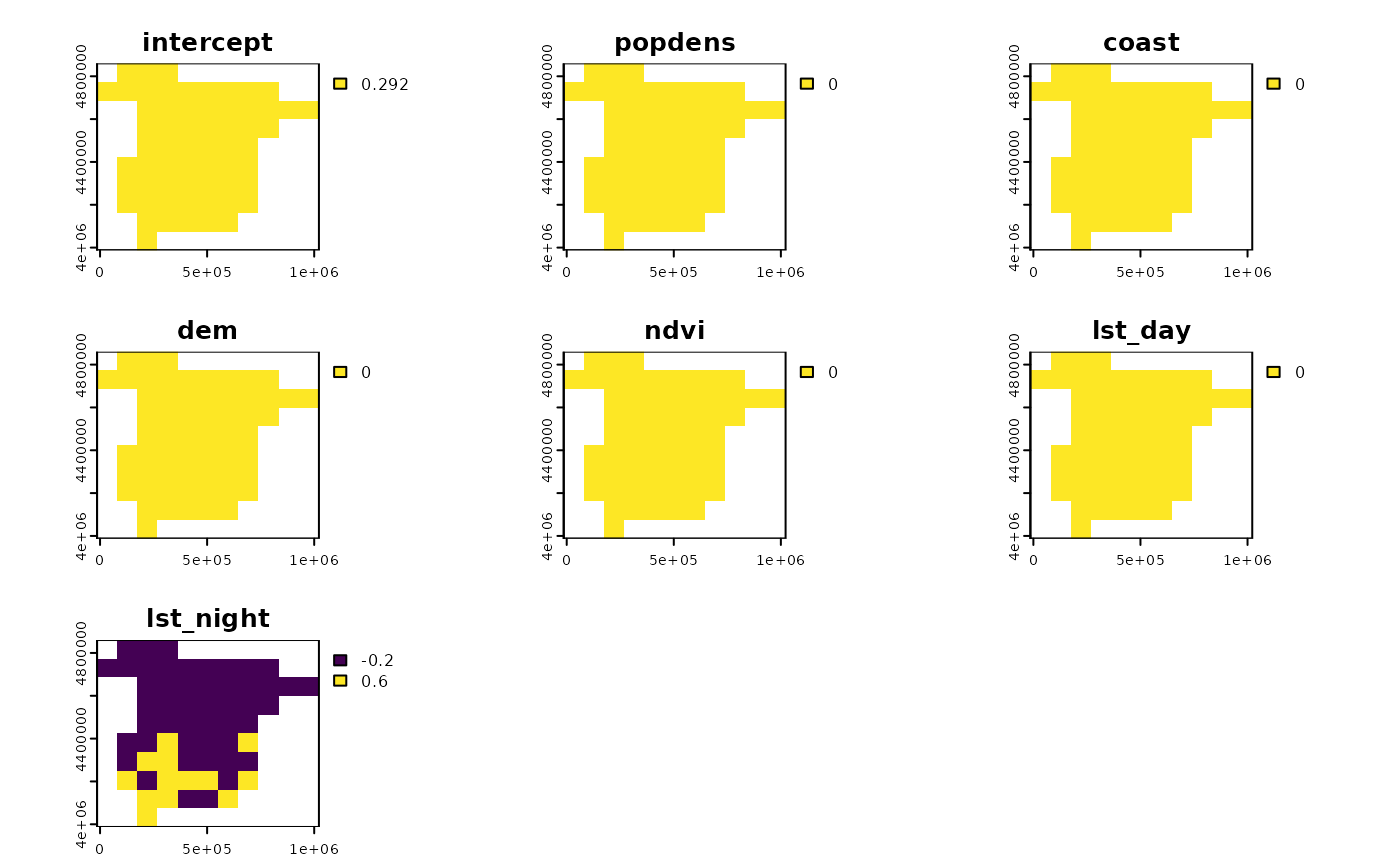
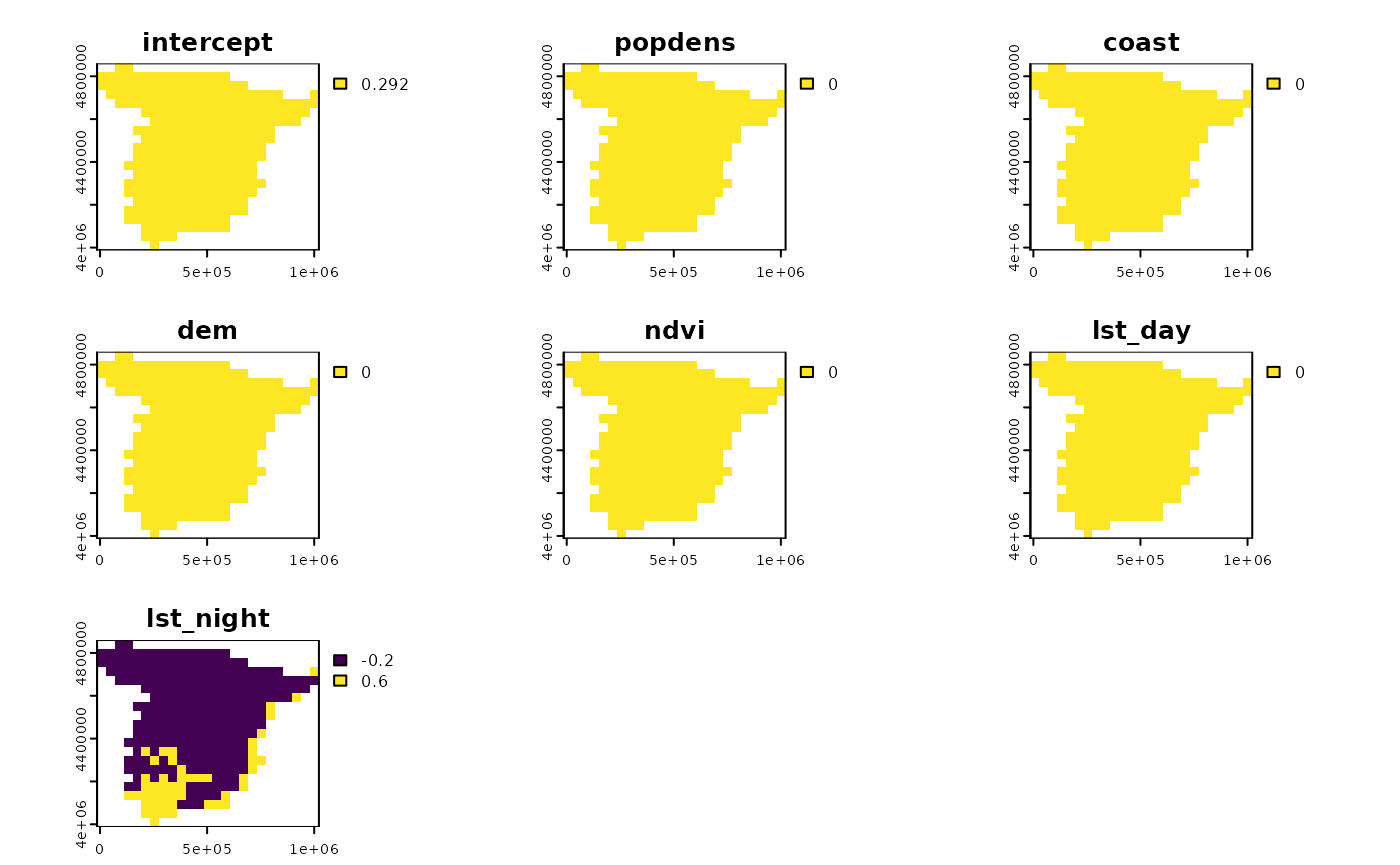
Built site for spatialexplain@0.0.1: a724ebf

diff --git a/articles/An-introduction-to-spatial-explanations.html b/articles/An-introduction-to-spatial-explanations.html
@@ -66,18 +66,15 @@
 
     
     
+<p>The <strong>spatialexplain</strong> package provides model agnostic tools for exploring and explaining spatial machine learning models. The goal of this vignette is to show the basic workflow of its usage.<a class="footnote-ref" tabindex="0" data-bs-toggle="popover" data-bs-content="&lt;p&gt;The modeling part of the vignette is very simplified to focus on the &lt;strong&gt;spatialexplain&lt;/strong&gt; package capabilities.&lt;/p&gt;"><sup>1</sup></a></p>
+<p>Let’s start by attaching the necessary packages.</p>
 <div class="sourceCode" id="cb1"><pre class="downlit sourceCode r">
 <code class="sourceCode R"><span><span class="kw"><a href="https://rdrr.io/r/base/library.html" class="external-link">library</a></span><span class="op">(</span><span class="va">spatialexplain</span><span class="op">)</span></span>
 <span><span class="kw"><a href="https://rdrr.io/r/base/library.html" class="external-link">library</a></span><span class="op">(</span><span class="va"><a href="https://r-spatial.github.io/sf/" class="external-link">sf</a></span><span class="op">)</span></span>
-<span><span class="co">#&gt; Linking to GEOS 3.10.2, GDAL 3.4.1, PROJ 8.2.1; sf_use_s2() is TRUE</span></span>
 <span><span class="kw"><a href="https://rdrr.io/r/base/library.html" class="external-link">library</a></span><span class="op">(</span><span class="va"><a href="https://rspatial.org/" class="external-link">terra</a></span><span class="op">)</span></span>
-<span><span class="co">#&gt; terra 1.7.83</span></span>
 <span><span class="kw"><a href="https://rdrr.io/r/base/library.html" class="external-link">library</a></span><span class="op">(</span><span class="va"><a href="https://github.com/bethatkinson/rpart" class="external-link">rpart</a></span><span class="op">)</span></span>
-<span><span class="kw"><a href="https://rdrr.io/r/base/library.html" class="external-link">library</a></span><span class="op">(</span><span class="va"><a href="https://modeloriented.github.io/DALEX/" class="external-link">DALEX</a></span><span class="op">)</span></span>
-<span><span class="co">#&gt; Welcome to DALEX (version: 2.4.3).</span></span>
-<span><span class="co">#&gt; Find examples and detailed introduction at: http://ema.drwhy.ai/</span></span>
-<span><span class="co">#&gt; Additional features will be available after installation of: ggpubr.</span></span>
-<span><span class="co">#&gt; Use 'install_dependencies()' to get all suggested dependencies</span></span></code></pre></div>
+<span><span class="kw"><a href="https://rdrr.io/r/base/library.html" class="external-link">library</a></span><span class="op">(</span><span class="va"><a href="https://modeloriented.github.io/DALEX/" class="external-link">DALEX</a></span><span class="op">)</span></span></code></pre></div>
+<p>Next, we load two spatial datasets. The first one is a spatial vector point dataset with annual average air temperature measurements in Celsius for Spain in 2019. The second one is a raster dataset with predictors, such as population density (<code>popdens</code>), distance to the coast (<code>coast</code>), elevation (<code>dem</code>), a satellite-based Normalized Difference Vegetation Index (<code>ndvi</code>), and annual average composites of the Land Surface Temperature product for day (<code>lst_day</code>) and night (<code>lst_night</code>).</p>
 <div class="sourceCode" id="cb2"><pre class="downlit sourceCode r">
 <code class="sourceCode R"><span><span class="va">temp_train</span> <span class="op">=</span> <span class="fu"><a href="https://r-spatial.github.io/sf/reference/st_read.html" class="external-link">read_sf</a></span><span class="op">(</span><span class="st">"/vsicurl/https://github.com/Nowosad/IIIRqueR_workshop_materials/raw/refs/heads/main/data/temp_train.gpkg"</span><span class="op">)</span></span>
 <span><span class="fu"><a href="https://rspatial.github.io/terra/reference/plot.html" class="external-link">plot</a></span><span class="op">(</span><span class="va">temp_train</span><span class="op">)</span></span></code></pre></div>
@@ -87,6 +84,10 @@
 <span><span class="va">predictors</span> <span class="op">=</span> <span class="fu"><a href="https://rspatial.github.io/terra/reference/rast.html" class="external-link">rast</a></span><span class="op">(</span><span class="st">"/vsicurl/https://github.com/Nowosad/IIIRqueR_workshop_materials/raw/refs/heads/main/data/predictors.tif"</span><span class="op">)</span></span>
 <span><span class="fu"><a href="https://rspatial.github.io/terra/reference/plot.html" class="external-link">plot</a></span><span class="op">(</span><span class="va">predictors</span>, axes <span class="op">=</span> <span class="cn">FALSE</span><span class="op">)</span></span></code></pre></div>
 <p><img src="An-introduction-to-spatial-explanations_files/figure-html/unnamed-chunk-2-2.png" width="700"></p>
+<div class="section level2">
+<h2 id="data-preparation">Data preparation<a class="anchor" aria-label="anchor" href="#data-preparation"></a>
+</h2>
+<p>To prepare the data for the model, we need to extract the values of the predictors at the locations of the temperature measurements with <code><a href="https://rspatial.github.io/terra/reference/extract.html" class="external-link">extract()</a></code>, and then combine them with the temperature measurements with <code><a href="https://rdrr.io/r/base/cbind.html" class="external-link">cbind()</a></code>.</p>
 <div class="sourceCode" id="cb4"><pre class="downlit sourceCode r">
 <code class="sourceCode R"><span><span class="va">temp</span> <span class="op">=</span> <span class="fu"><a href="https://rspatial.github.io/terra/reference/extract.html" class="external-link">extract</a></span><span class="op">(</span><span class="va">predictors</span>, <span class="va">temp_train</span>, ID <span class="op">=</span> <span class="cn">FALSE</span><span class="op">)</span></span>
 <span><span class="va">temp_train</span> <span class="op">=</span> <span class="fu"><a href="https://rdrr.io/r/base/cbind.html" class="external-link">cbind</a></span><span class="op">(</span><span class="va">temp_train</span>, <span class="va">temp</span><span class="op">)</span></span>
@@ -110,9 +111,11 @@
 <span><span class="co">#&gt; 4 POINT (902776.4 4630234)</span></span>
 <span><span class="co">#&gt; 5 POINT (928394.5 4598097)</span></span>
 <span><span class="co">#&gt; 6 POINT (934920.7 4595391)</span></span></code></pre></div>
+</div>
 <div class="section level2">
 <h2 id="regression-model">Regression model<a class="anchor" aria-label="anchor" href="#regression-model"></a>
 </h2>
+<p>Now, we can build models that predict the temperature based on the predictors. The first one is a regression model that predicts the temperature in Celsius for the whole area of the <code>predictors</code> raster. Many modeling methods and R tools can be used to build the model, but in this vignette, we use the <code><a href="https://rdrr.io/pkg/rpart/man/rpart.html" class="external-link">rpart()</a></code> function from the <strong>rpart</strong> package, which builds a regression tree model.</p>
 <div class="sourceCode" id="cb5"><pre class="downlit sourceCode r">
 <code class="sourceCode R"><span><span class="va">rpart_model</span> <span class="op">=</span> <span class="fu"><a href="https://rdrr.io/pkg/rpart/man/rpart.html" class="external-link">rpart</a></span><span class="op">(</span><span class="va">temp</span> <span class="op">~</span> <span class="va">.</span>, data <span class="op">=</span> <span class="fu"><a href="https://r-spatial.github.io/sf/reference/st_geometry.html" class="external-link">st_drop_geometry</a></span><span class="op">(</span><span class="va">temp_train</span><span class="op">)</span><span class="op">)</span></span>
 <span><span class="va">rpart_model</span></span>
@@ -134,6 +137,7 @@
 <span><span class="co">#&gt;       12) lst_day&lt; 25.98267 24   13.758720 14.412790 *</span></span>
 <span><span class="co">#&gt;       13) lst_day&gt;=25.98267 45   30.963710 16.167310 *</span></span>
 <span><span class="co">#&gt;      7) lst_night&gt;=10.0302 56   53.423460 18.143620 *</span></span></code></pre></div>
+<p>Next, we can use the <code><a href="https://modeloriented.github.io/DALEX/reference/explain.html" class="external-link">explain()</a></code> function from the <strong>DALEX</strong> package to create an explainer object for the model. Explainer is a universal model wrapper that can be used to explain any model with the same set of tools.<a class="footnote-ref" tabindex="0" data-bs-toggle="popover" data-bs-content="&lt;p&gt;The &lt;strong&gt;DALEX&lt;/strong&gt; package allows explaining models created with &lt;strong&gt;keras&lt;/strong&gt;, &lt;strong&gt;parsnip&lt;/strong&gt;, &lt;strong&gt;caret&lt;/strong&gt;, &lt;strong&gt;mlr&lt;/strong&gt;, &lt;strong&gt;H2O&lt;/strong&gt;, &lt;strong&gt;xgboost&lt;/strong&gt;, and many others. Moreover, its extension &lt;strong&gt;DALEXtra&lt;/strong&gt; allows explaining models created with &lt;strong&gt;xgboost&lt;/strong&gt;, &lt;strong&gt;mlr&lt;/strong&gt;, &lt;strong&gt;mlr3&lt;/strong&gt;, &lt;strong&gt;tidymodels&lt;/strong&gt;, and even Python’s &lt;strong&gt;scikit-learn&lt;/strong&gt; and &lt;strong&gt;keras&lt;/strong&gt; and Java’s &lt;strong&gt;h2o&lt;/strong&gt;.&lt;/p&gt;"><sup>2</sup></a></p>
 <div class="sourceCode" id="cb6"><pre class="downlit sourceCode r">
 <code class="sourceCode R"><span><span class="va">regr_exp</span> <span class="op">=</span> <span class="fu"><a href="https://modeloriented.github.io/DALEX/reference/explain.html" class="external-link">explain</a></span><span class="op">(</span><span class="va">rpart_model</span>,</span>
 <span>                   data <span class="op">=</span> <span class="fu"><a href="https://r-spatial.github.io/sf/reference/st_geometry.html" class="external-link">st_drop_geometry</a></span><span class="op">(</span><span class="va">temp_train</span><span class="op">)</span><span class="op">[</span><span class="op">-</span><span class="fl">1</span><span class="op">]</span>,</span>
@@ -149,17 +153,21 @@
 <span><span class="co">#&gt;   -&gt; residual function :  difference between y and yhat (  default  )</span></span>
 <span><span class="co">#&gt;   -&gt; residuals         :  numerical, min =  -3.09541 , mean =  1.512235e-15 , max =  2.473572  </span></span>
 <span><span class="co">#&gt;   A new explainer has been created!</span></span></code></pre></div>
+<p>This explainer can be used to check various instance and dataset-level explanations of the model, such as partial dependence plots and feature importance.<a class="footnote-ref" tabindex="0" data-bs-toggle="popover" data-bs-content='&lt;p&gt;Read the &lt;a href="https://ema.drwhy.ai/" class="external-link"&gt;"Biecek, P., &amp;amp; Burzykowski, T. (2021). Explanatory model analysis: explore, explain, and examine predictive models. Chapman and Hall/CRC.&lt;/a&gt; book for more details.&lt;/p&gt;'><sup>3</sup></a> However, these methods usually do not inform us about the spatial distribution of the model predictions. This is where the <strong>spatialexplain</strong> package comes in. It has a function called <code><a href="../reference/predict_spatial_parts.html">predict_spatial_parts()</a></code> that can be used to calculate the attributions of the model (Break Down, SHAP, or Oscillations explanations) for each observation in the raster. The function requires the explainer object and the predictor’s raster. Additionally, as the calculation of the attributions can be computationally expensive, the function has a <code>maxcell</code> parameter that controls the number of cells in the raster that will be used to get the attributions.</p>
 <div class="sourceCode" id="cb7"><pre class="downlit sourceCode r">
-<code class="sourceCode R"><span><span class="va">regr_pps1</span> <span class="op">=</span> <span class="fu"><a href="../reference/predict_spatial_parts.html">predict_spatial_parts</a></span><span class="op">(</span><span class="va">regr_exp</span>, <span class="va">predictors</span>, maxcell <span class="op">=</span> <span class="fl">100</span><span class="op">)</span></span>
+<code class="sourceCode R"><span><span class="va">regr_pps1</span> <span class="op">=</span> <span class="fu"><a href="../reference/predict_spatial_parts.html">predict_spatial_parts</a></span><span class="op">(</span><span class="va">regr_exp</span>, <span class="va">predictors</span>, maxcell <span class="op">=</span> <span class="fl">500</span><span class="op">)</span></span>
 <span><span class="fu"><a href="https://rspatial.github.io/terra/reference/plot.html" class="external-link">plot</a></span><span class="op">(</span><span class="va">regr_pps1</span><span class="op">)</span></span></code></pre></div>
 <p><img src="An-introduction-to-spatial-explanations_files/figure-html/unnamed-chunk-6-1.png" width="700"></p>
+<p>By default, the <code><a href="../reference/predict_spatial_parts.html">predict_spatial_parts()</a></code> function calculates the Break Down attributions. This method quantifies how each explanatory variable contributes to the model’s average prediction (the ‘intercept’) by assessing the impact on the prediction as values of each variable are fixed in sequence. Each of the cells in the raster is colored according to the contribution of the predictors to the model prediction. Here, we can see that the intercept of the model is 15.1 for the whole area, and that the variables <code>popdens</code>, <code>coast</code>, and <code>ndvi</code> do not have any influence on the model prediction. On the other hand, the variables <code>dem</code>, <code>lst_day</code>, and <code>lst_night</code> affect the model prediction differently, depending on the location. For example, the <code>dem</code> variable has a negative influence on the model prediction in the mountainous areas – the higher the elevation, the lower the temperature.</p>
 </div>
 <div class="section level2">
 <h2 id="classification-model">Classification model<a class="anchor" aria-label="anchor" href="#classification-model"></a>
 </h2>
+<p>The same workflow can be used for classification models. Here, we build a classification model that predicts if the temperature is cold or hot (below or above 17 degrees Celsius).</p>
 <div class="sourceCode" id="cb8"><pre class="downlit sourceCode r">
 <code class="sourceCode R"><span><span class="va">temp_train</span><span class="op">$</span><span class="va">temp</span> <span class="op">=</span> <span class="fu"><a href="https://rdrr.io/r/base/cut.html" class="external-link">cut</a></span><span class="op">(</span><span class="va">temp_train</span><span class="op">$</span><span class="va">temp</span>,</span>
 <span>                      breaks <span class="op">=</span> <span class="fu"><a href="https://rdrr.io/r/base/c.html" class="external-link">c</a></span><span class="op">(</span><span class="op">-</span><span class="cn">Inf</span>, <span class="fl">17</span>, <span class="cn">Inf</span><span class="op">)</span>, labels <span class="op">=</span> <span class="fu"><a href="https://rdrr.io/r/base/c.html" class="external-link">c</a></span><span class="op">(</span><span class="st">"cold"</span>, <span class="st">"hot"</span><span class="op">)</span><span class="op">)</span></span></code></pre></div>
+<p>We use the <code><a href="https://rdrr.io/pkg/rpart/man/rpart.html" class="external-link">rpart()</a></code> function from the <strong>rpart</strong> package to build a classification tree model.</p>
 <div class="sourceCode" id="cb9"><pre class="downlit sourceCode r">
 <code class="sourceCode R"><span><span class="va">rpart_model_clas</span> <span class="op">=</span> <span class="fu"><a href="https://rdrr.io/pkg/rpart/man/rpart.html" class="external-link">rpart</a></span><span class="op">(</span><span class="va">temp</span> <span class="op">~</span> <span class="va">.</span>, data <span class="op">=</span> <span class="fu"><a href="https://r-spatial.github.io/sf/reference/st_geometry.html" class="external-link">st_drop_geometry</a></span><span class="op">(</span><span class="va">temp_train</span><span class="op">)</span><span class="op">)</span></span>
 <span><span class="va">rpart_model_clas</span></span>
@@ -171,6 +179,7 @@
 <span><span class="co">#&gt; 1) root 195 57 cold (0.70769231 0.29230769)  </span></span>
 <span><span class="co">#&gt;   2) lst_night&lt; 10.04327 140  8 cold (0.94285714 0.05714286) *</span></span>
 <span><span class="co">#&gt;   3) lst_night&gt;=10.04327 55  6 hot (0.10909091 0.89090909) *</span></span></code></pre></div>
+<p>Next, we create an explainer object for the classification model – the code is almost the same as for the regression model, except that we use the classification model here.</p>
 <div class="sourceCode" id="cb10"><pre class="downlit sourceCode r">
 <code class="sourceCode R"><span><span class="va">clas_exp</span> <span class="op">=</span> <span class="fu"><a href="https://modeloriented.github.io/DALEX/reference/explain.html" class="external-link">explain</a></span><span class="op">(</span><span class="va">rpart_model_clas</span>,</span>
 <span>                   data <span class="op">=</span> <span class="fu"><a href="https://r-spatial.github.io/sf/reference/st_geometry.html" class="external-link">st_drop_geometry</a></span><span class="op">(</span><span class="va">temp_train</span><span class="op">)</span><span class="op">[</span><span class="op">-</span><span class="fl">1</span><span class="op">]</span>,</span>
@@ -192,11 +201,14 @@
 <span><span class="co">#&gt; factors</span></span>
 <span><span class="co">#&gt;   -&gt; residuals         :  numerical, min =  NA , mean =  NA , max =  NA  </span></span>
 <span><span class="co">#&gt;   A new explainer has been created!</span></span></code></pre></div>
+<p>Finally, we can calculate the attributions for the classification model using the <code><a href="../reference/predict_spatial_parts.html">predict_spatial_parts()</a></code> function.</p>
 <div class="sourceCode" id="cb11"><pre class="downlit sourceCode r">
-<code class="sourceCode R"><span><span class="va">clas_pps1</span> <span class="op">=</span> <span class="fu"><a href="../reference/predict_spatial_parts.html">predict_spatial_parts</a></span><span class="op">(</span><span class="va">clas_exp</span>, <span class="va">predictors</span>, maxcell <span class="op">=</span> <span class="fl">100</span><span class="op">)</span></span>
+<code class="sourceCode R"><span><span class="va">clas_pps1</span> <span class="op">=</span> <span class="fu"><a href="../reference/predict_spatial_parts.html">predict_spatial_parts</a></span><span class="op">(</span><span class="va">clas_exp</span>, <span class="va">predictors</span>, maxcell <span class="op">=</span> <span class="fl">500</span><span class="op">)</span></span>
 <span><span class="fu"><a href="https://rspatial.github.io/terra/reference/plot.html" class="external-link">plot</a></span><span class="op">(</span><span class="va">clas_pps1</span><span class="op">)</span></span></code></pre></div>
 <p><img src="An-introduction-to-spatial-explanations_files/figure-html/unnamed-chunk-10-1.png" width="700"></p>
+<p>The classification model is much simpler in this case.<a class="footnote-ref" tabindex="0" data-bs-toggle="popover" data-bs-content="&lt;p&gt;Importantly, we did not consider the quality of the models in this vignette. In the real-world scenario, the model should be validated using cross-validation, and the quality of the model should be assessed using various metrics.&lt;/p&gt;"><sup>4</sup></a> The average prediction of the model is <code>0.292</code> for the whole area, meaning that the probability of the temperature being hot is <code>0.292</code>. Then, only the <code>lst_night</code> variable has an impact on the model prediction, with the higher values of the variable increasing the probability of the temperature being hot. We can find such areas in the south of Spain and along its eastern coast.</p>
 </div>
+
   </main><aside class="col-md-3"><nav id="toc" aria-label="Table of contents"><h2>On this page</h2>
     </nav></aside>
 </div>
